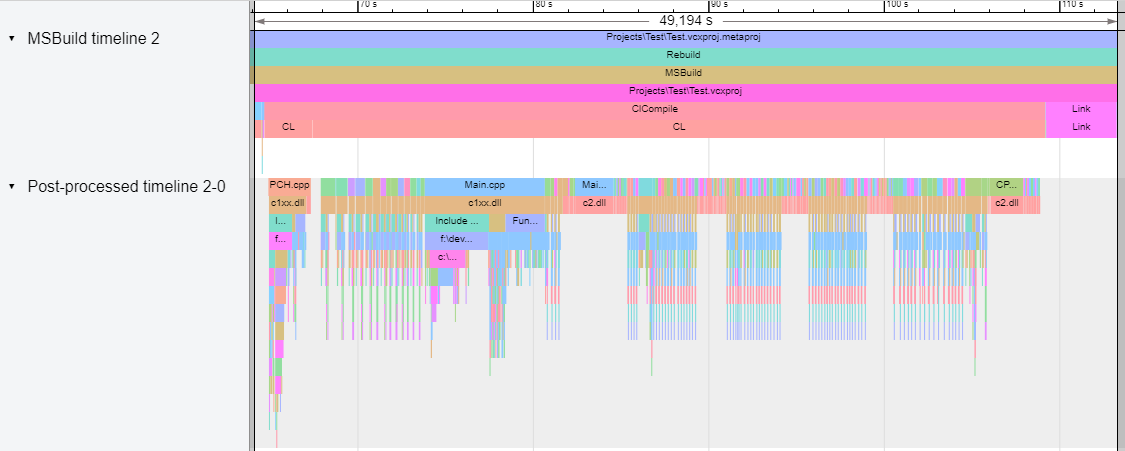
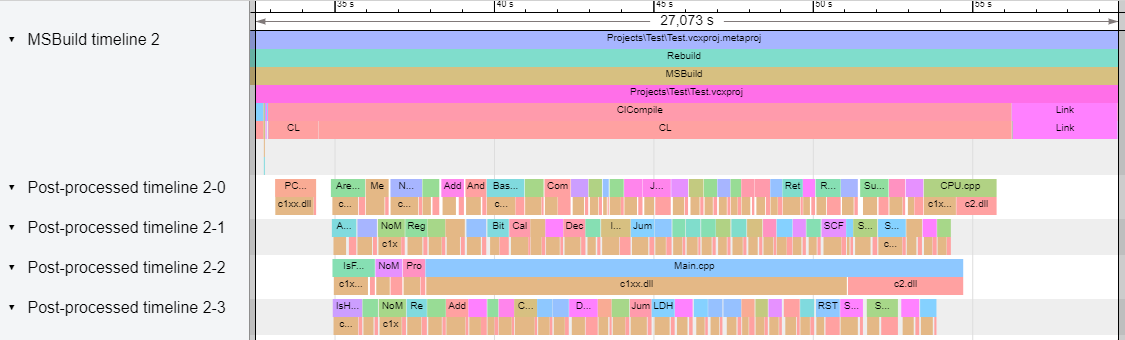
Continues draft

diff --git a/_drafts/investigating-cpp-compile-times-3.md b/_drafts/investigating-cpp-compile-times-3.md
@@ -1,6 +1,6 @@
 ---
 layout: single
-title: "Improving C++ compile times thanks to flame graphs"
+title: "Improving C++ compile times using flame graphs"
 excerpt: "Now we can create flame graphs from MSBuild executions, let's put them to use!"
 author: Meta
 category: Toolbox
@@ -219,16 +219,52 @@ First of all, we can see the `Include Headers` section features a smaller number
 
 No wonder why the time spent on this file went down from `1.174s` to `0.161s`! Why don't we compare how the `Test.vcxproj` project build time changed with the PCH?
 
+This one is before having a PCH:
+
+![Test.vcxproj without PCH with /d1reportTime]({{ '/' | absolute_url }}/assets/images/per-post/investigating-cpp-compile-times-3/test-project-d1reporttime-pre-pch.png "Test.vcxproj without PCH with /d1reportTime"){: .align-center}
+
+Let's add the PCH:
+
+![Test.vcxproj with PCH with /d1reportTime]({{ '/' | absolute_url }}/assets/images/per-post/investigating-cpp-compile-times-3/test-project-d1reporttime-post-pch.png "Test.vcxproj with PCH with /d1reportTime"){: .align-center}
+
+See how the PCH has cut a lot of depth on each file? Also, the full project went down from `2m17s` to `49s`, and that's with `/MP` turned off! What if we turned it on?
+
+This one is before having a PCH:
+
 ![Test.vcxproj without PCH]({{ '/' | absolute_url }}/assets/images/per-post/investigating-cpp-compile-times-3/test-project-pre-pch.png "Test.vcxproj without PCH"){: .align-center}
+
+Let's add the PCH:
 
 ![Test.vcxproj with PCH]({{ '/' | absolute_url }}/assets/images/per-post/investigating-cpp-compile-times-3/test-project-post-pch.png "Test.vcxproj with PCH"){: .align-center}
 
-It's gone down from `2m26s` to `49s`!
+It's gone from `1m08s` to `27s`! Also, have you noticed how each `c1xx.dll` entry has shrunk?
+
+To sum up: we can check build times thanks to these flame graphs but also visualize the impact of our changes!
 
 # Extra examples
 
-## Google Test
+To finish this post I've built a couple of projects from GitHub to see how their flame graphs look like. Let's check them!
 
 ## RapidJSON
 
-## CMake?
+This is the flame graph for [RapidJSON](https://github.com/Tencent/rapidjson){:target="_blank"} when building the whole solution in `Debug|x64` with `/Bt+` and `/time+` enabled. Be warned, it's huge:
+
+![RapidJSON flame graph]({{ '/' | absolute_url }}/assets/images/per-post/investigating-cpp-compile-times-3/example-rapidjson.png "RapidJSON flame graph"){: .align-center}
+
+With the info from this post, can you tell whether `/MP` is enabled for this build?
+
+For reference, this is what [Paralel Builds Monitor](https://marketplace.visualstudio.com/items?itemName=ivson4.ParallelBuildsMonitor-18691){:target="_blank"} has to say of the build:
+
+![RapidJSON build as seen by Parallel Builds Monitor]({{ '/' | absolute_url }}/assets/images/per-post/investigating-cpp-compile-times-3/example-rapidjson-parallel-builds-monitor.png "RapidJSON build as seen by Parallel Builds Monitor"){: .align-center}
+
+See how the maximum number of projects building in parallel is 4? That's the number of logical cores in the machine I used to build it.
+
+## Google Test
+
+This one is for [Google Test](https://github.com/google/googletest){:target="_blank"}, `Debug|x64`. While RapidJSON built 28 projects, this one builds 80. We'll have to see it as a downscaled gif:
+
+![Google Test flame graph]({{ '/' | absolute_url }}/assets/images/per-post/investigating-cpp-compile-times-3/google-test-flame-graph.gif "Google Test flame graph"){: .align-center}
+
+---
+
+Redact some final.
